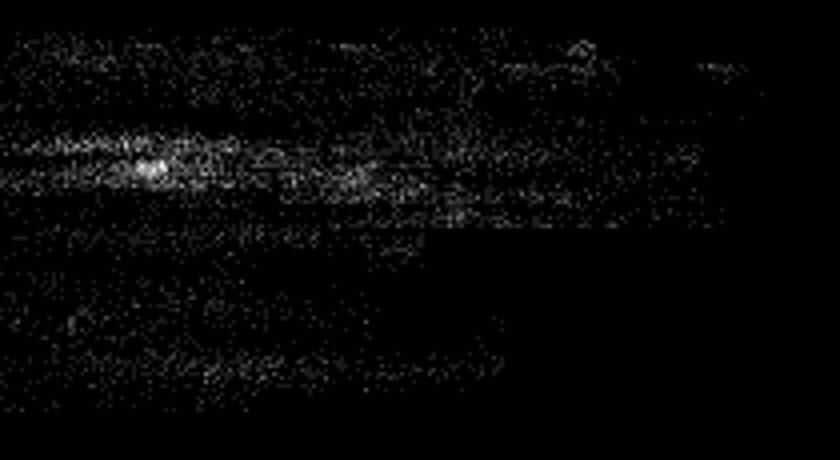
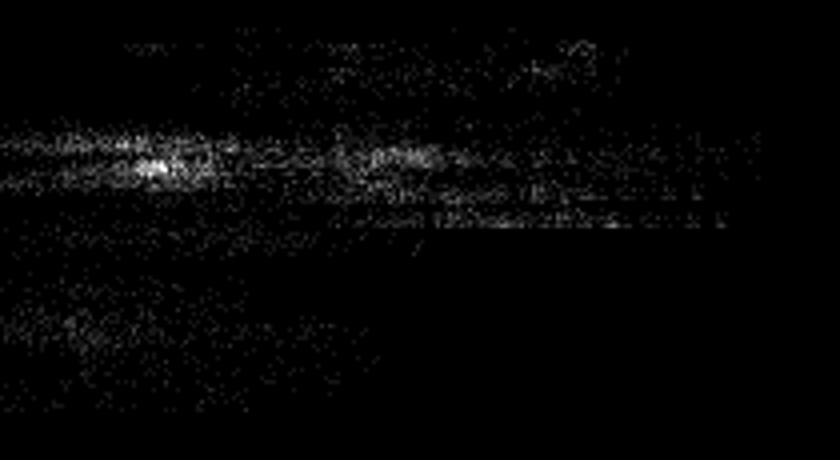
Fixing algorithm error

diff --git a/project4.m b/project4.m
@@ -10,11 +10,12 @@ ground_truth = "GroundTruth/CarsGroundTruthBoundingBoxes.mat";
 
 %% Set Detector Parameters
 
-harris_threshold = 5e7;
-harris_window = 9;
+harris_threshold = 1e8;
+harris_window = 13;
 num_clusters = 50;
-ssd_threshold = 2;
-hough_vote_below_threshold = 1;
+ssd_threshold = inf;
+hough_vote_below_threshold = 0;
+accumulator_window = 5;
 
 %% Get images
 train_imgs = get_images(train_dir);
@@ -40,14 +41,14 @@ end
 
 categorizer = categorizer.init_detection_stage(test_imgs);
 categorizer = categorizer.set_testing_visual_words(ssd_threshold);
-categorizer = categorizer.perform_hough_transform_voting(hough_vote_below_threshold);
+categorizer = categorizer.perform_hough_transform_voting(hough_vote_below_threshold, accumulator_window);
 categorizer = categorizer.compute_accuracy();
 
 %% Test detector for sample image
 test_sample = 100;
 categorizer.debug_accumulator(test_sample);    % Saves accumulator to file
 categorizer.display_bounding_box(test_sample);   % Displays bounding box for one test sample
-categorizer.debug_detector(test_sample);       % Displays detector result
+% categorizer.debug_detector(test_sample);       % Displays detector result
 
 %% Debug bounding boxes for test images
 % Careful with this one as it may spawn 100 figures

diff --git a/detector.m b/detector.m
@@ -146,12 +146,12 @@ classdef detector
       end
     end
 
-    function obj = perform_hough_transform_voting(obj, next_best_threshold)
+    function obj = perform_hough_transform_voting(obj, next_best_threshold, accumulator_window)
       if nargin < 2
         next_best_threshold = 0;
+        accumulator_window = 7; 
       end
       disp("Performing generalized hough transform voting...");
-      accumulator_window = 7;  
       for i = 1:obj.test_num_frames
         im_size = obj.test_images(i).size;
         obj.test_images(i).accumulator = uint8(zeros(im_size));
